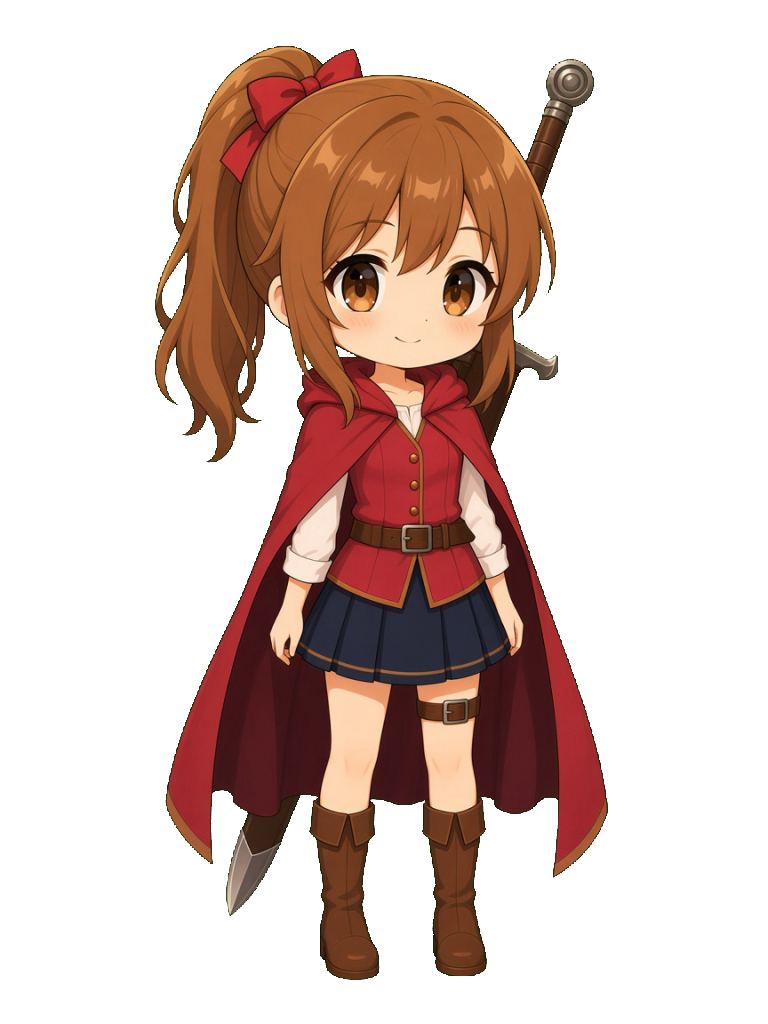
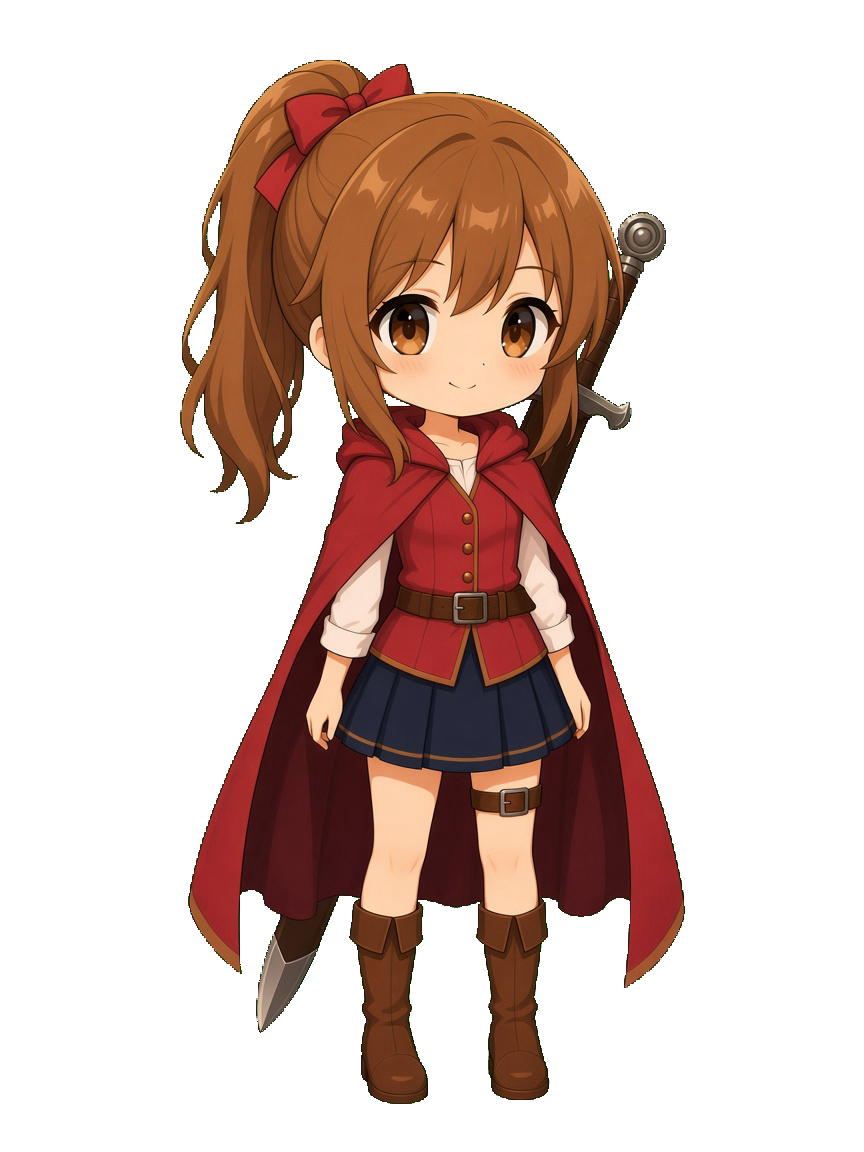
Lower the female selection token to the road illustration's chibi proportion.

diff --git a/index.html b/index.html
@@ -4469,7 +4469,7 @@
     let castShown = "";
     const CAST = [
       { name: "戦士", stand: "job-front.png?v=5", chibi: "job-warrior.png?v=9", action: "job-action.jpg?v=3", battle: "hero-shoulder.png?v=25", battleRatio: "864 / 1152", defeat: "warrior-defeat.png?v=3", victory: "warrior-victory.png?v=3" },
-      { name: "女の戦士", stand: "girl-front.png?v=9", chibi: "job-girl.png?v=4", action: "girl-action.jpg?v=1", battle: "girl-battle.png?v=13", battleRatio: "864 / 1152", defeat: "girl-defeat.png?v=8", victory: "girl-victory.png?v=9" },
+      { name: "女の戦士", stand: "girl-front.png?v=9", chibi: "job-girl.png?v=5", action: "girl-action.jpg?v=1", battle: "girl-battle.png?v=13", battleRatio: "864 / 1152", defeat: "girl-defeat.png?v=8", victory: "girl-victory.png?v=9" },
     ];
     let heroCast = "戦士";
     function heroItem() { return castByName(heroCast); }
@@ -7260,7 +7260,7 @@
     }
 
     function renderCharacter() {
-      // コマは正面向きの3頭身デフォルメだけ。4頭身の正面の立ち絵はこの画面には出さない（一枚絵と板で十分）。
+      // コマは正面向きのおよそ2.5頭身デフォルメだけ。道の絵に合わせる。4頭身の正面の立ち絵はこの画面には出さない（一枚絵と板で十分）。
       const tokens = CAST.map((item) => `
         <button type="button" class="cast-token mini" data-action="cast-token" data-cast="${esc(item.name)}" aria-label="${esc(item.name)}">
           <img src="${item.chibi}" alt="">
@@ -7463,7 +7463,7 @@
             </div>
             <div class="ref-grid">
               ${sheetFig("job-warrior.png?v=9", "戦士の選択コマ（正面デフォルメ）", "cut-ref")}
-              ${sheetFig("job-girl.png?v=4", "女の戦士の選択コマ（正面デフォルメ）", "cut-ref")}
+              ${sheetFig("job-girl.png?v=5", "女の戦士の選択コマ（正面デフォルメ）", "cut-ref")}
             </div>
             <h3>タイトル</h3>
             ${sheetBanner("title-key.jpg?v=1", "タイトル", "タイトル。戦士2人の後ろに巨大なミノタウロスが迫る。")}
